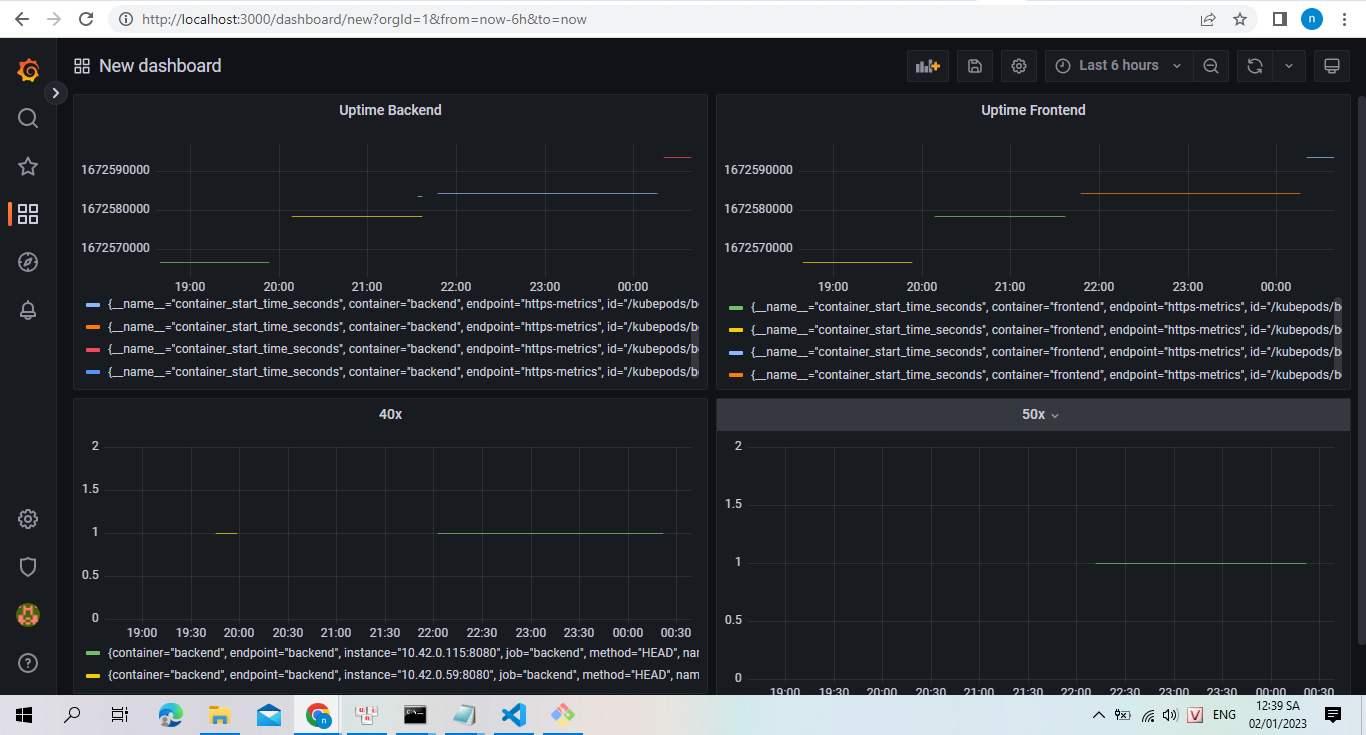
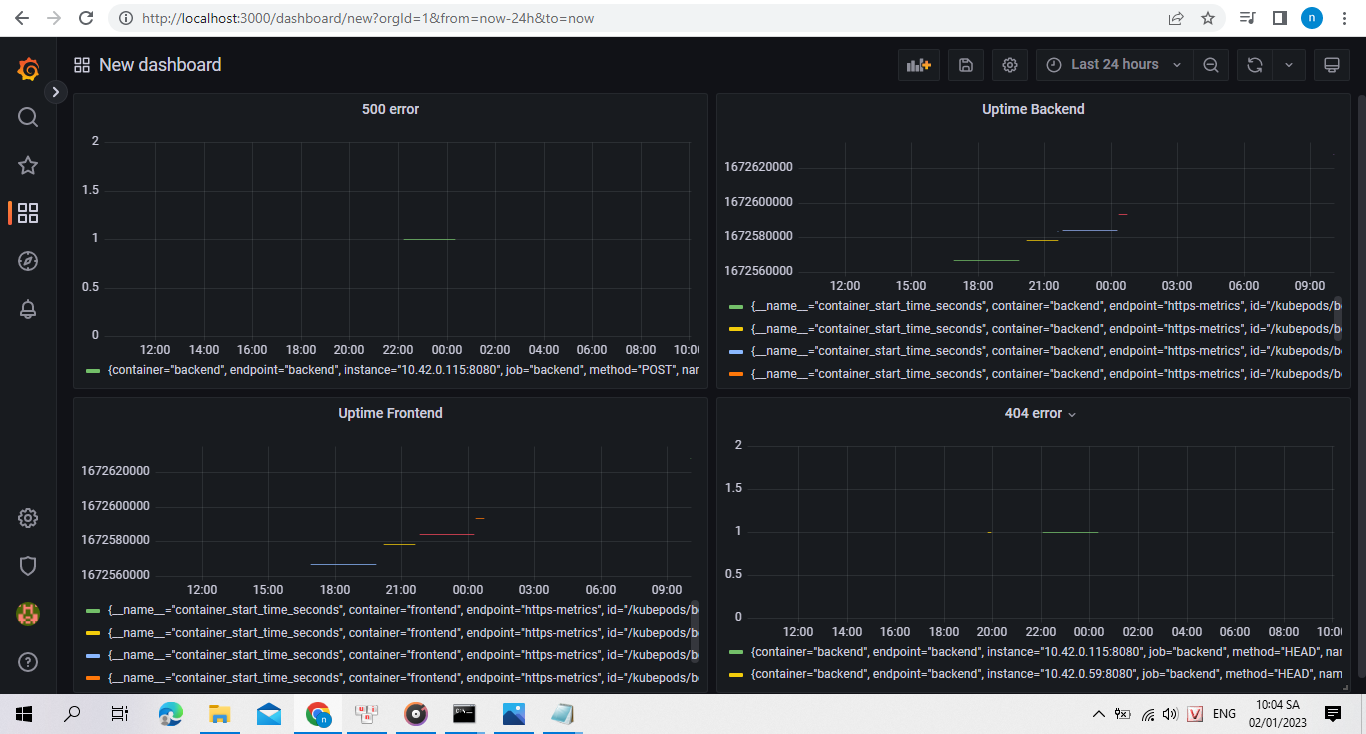
upload files

diff --git a/README.md b/README.md
@@ -88,3 +88,10 @@ Monthly quota limit - this KPI will indicate whether the application is exceedin
 
 ## Final Dashboard
 - ![default ns](/Screenshots/Final_Dasboard.png)
+Uptime Backend - The time of backend application works  
+Uptime Frontend - The time of frontend application works  
+CPU usage - Total CPU use in each Pods  
+Memory Usage - Total RAM use in each Pods  
+20x - Total request will be had a response with status 20x  
+40x - Total request will be had a response with status 40x  
+50x - Total request will be had a response with status 50x  
